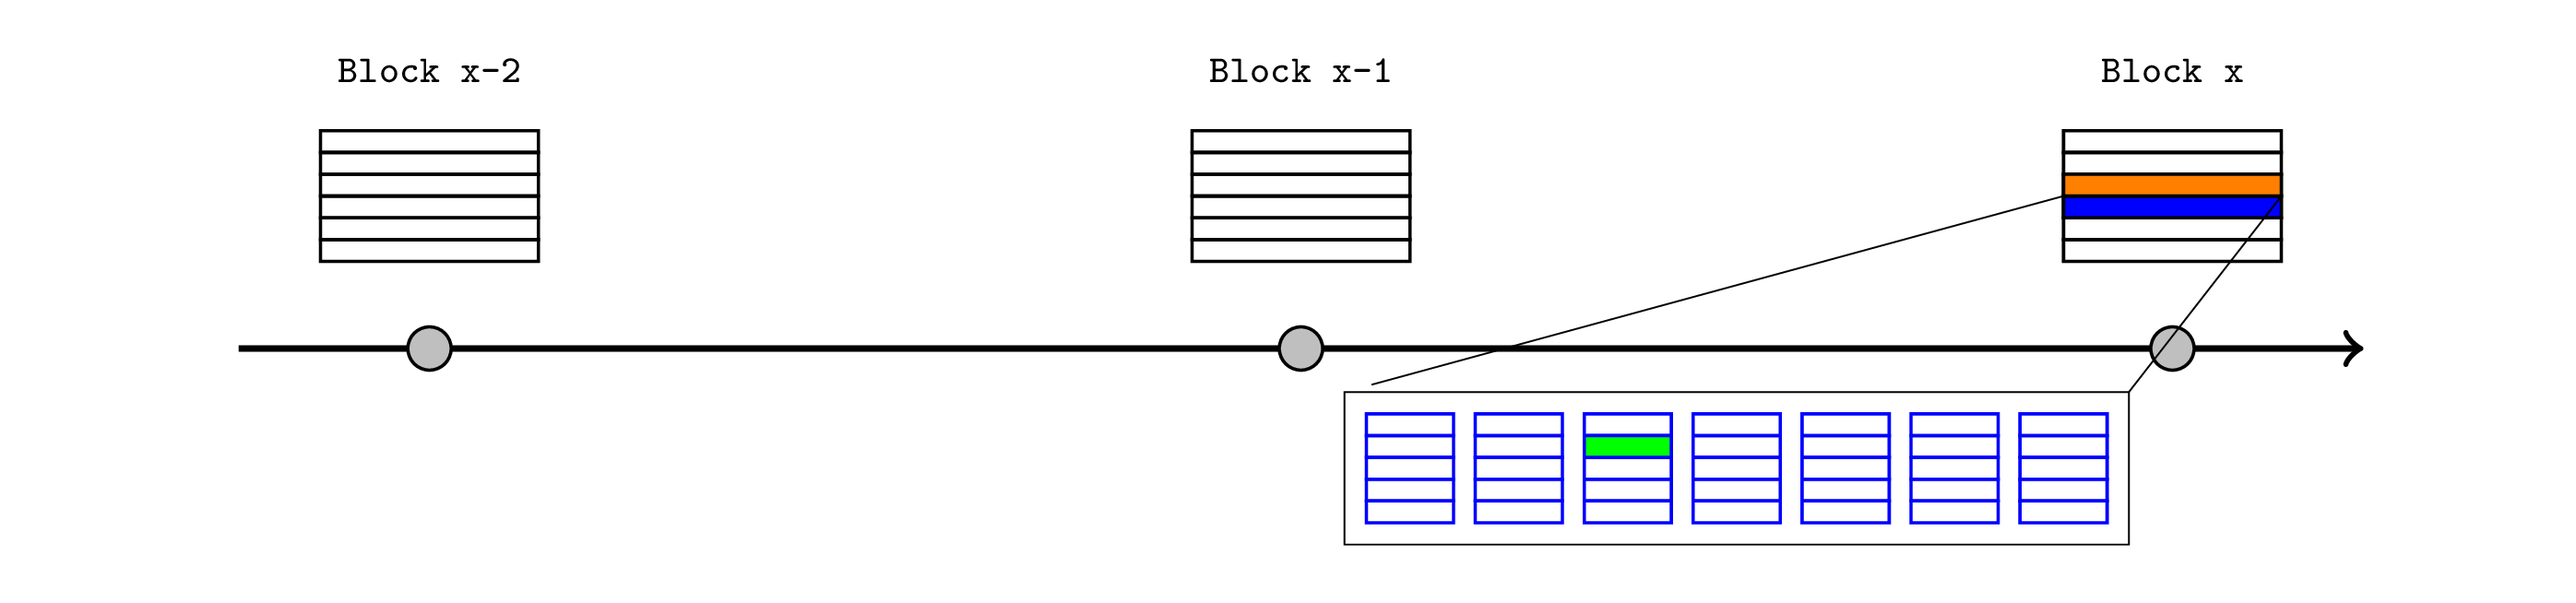
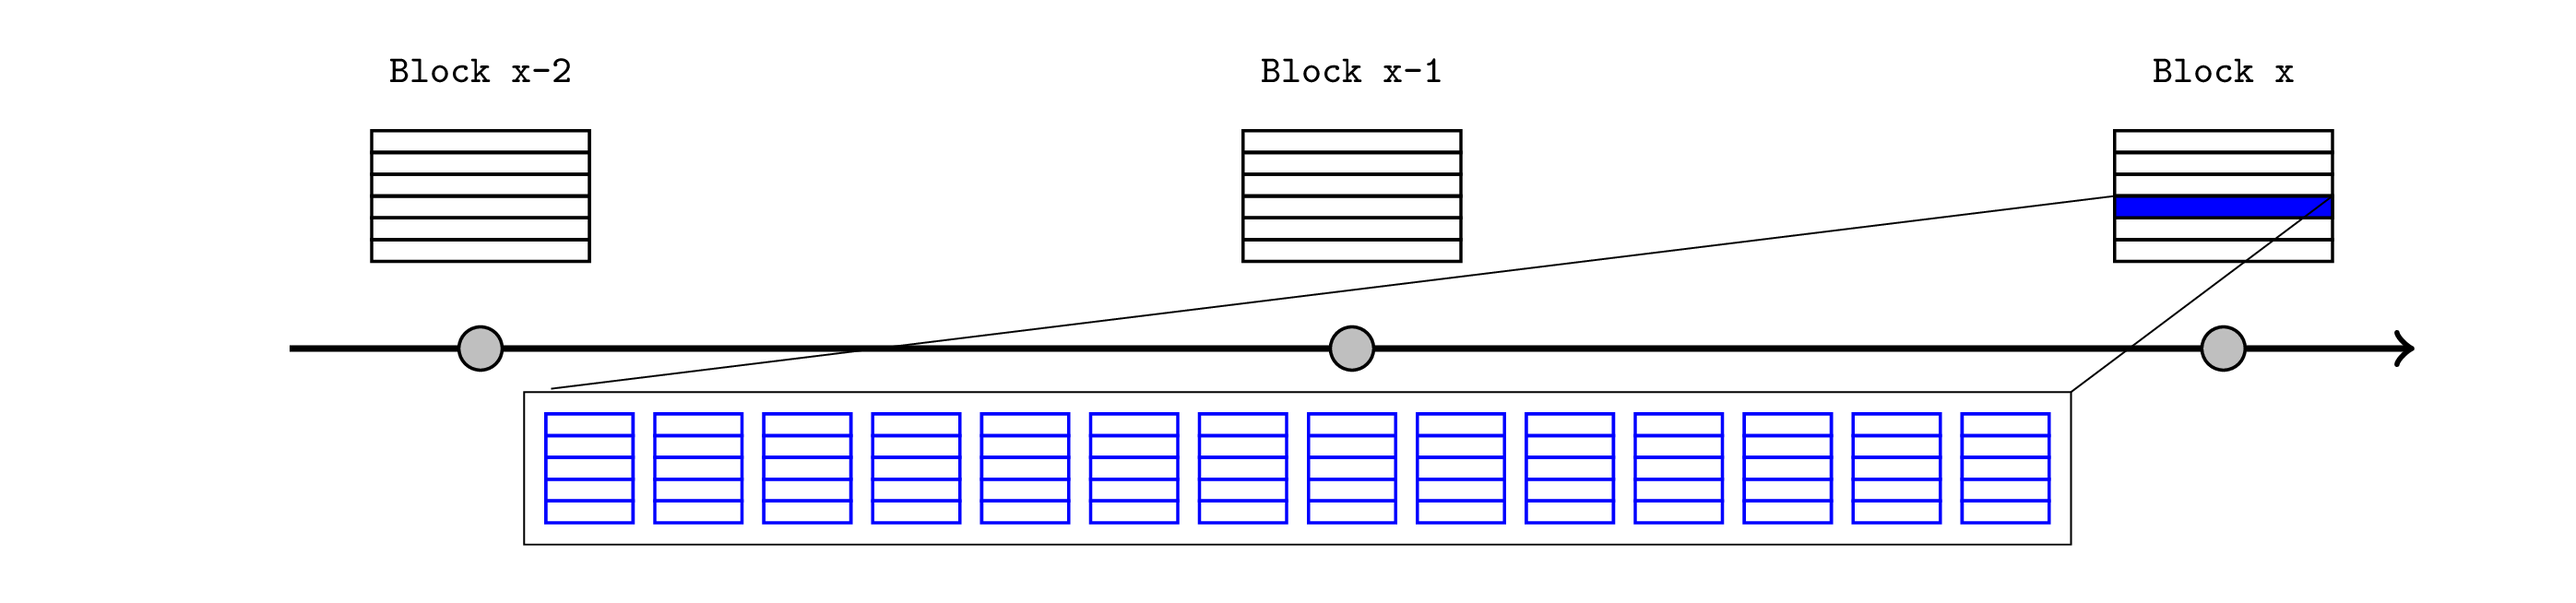
Simplify discussion about transaction ordering

diff --git a/documentation/provable_assertion_images.tex b/documentation/provable_assertion_images.tex
@@ -85,24 +85,11 @@
 \end{tikzpicture}
 \fi
 
-% Compare L2 transaction to L1 transaction
-\ifnum \sourceNo = 2
-\begin{tikzpicture}[framed]
-    \timeline
-    \lOneTransactions
-    \lTwoTransactions
-    \publication
-
-    \node[draw, lOneTx, fill=orange] at (tx-2-2) {};
-    \node[draw, lTwoTx, fill=green] at (l2Tx-2-1) {};
-\end{tikzpicture}
-\fi
-
 % L2 publications may span multiple L1 slots
 \renewcommand{\anchorBlockNum}{0}
 \renewcommand{\numLTwoBlocks}{13}
 
-\ifnum \sourceNo = 3
+\ifnum \sourceNo = 2
 \begin{tikzpicture}[framed]
     \timeline
     \lOneTransactions
@@ -126,7 +113,7 @@
 }
 
 % Snapshot after L2 transaction
-\ifnum \sourceNo = 4
+\ifnum \sourceNo = 3
 \begin{tikzpicture}[framed]
     \timeline
 
@@ -147,7 +134,7 @@
 }
 
 % Anchor block hash is validated
-\ifnum \sourceNo = 5
+\ifnum \sourceNo = 4
 \begin{tikzpicture}[framed]
     \timeline
 
@@ -164,7 +151,7 @@
 \fi
 
 % Anchor block hash is validated
-\ifnum \sourceNo = 6
+\ifnum \sourceNo = 5
 \begin{tikzpicture}[framed]
     \timeline
 

diff --git a/documentation/PreemptiveProvableAssertions.md b/documentation/PreemptiveProvableAssertions.md
@@ -25,18 +25,11 @@ L2 transactions are derived from data published in an L1 transaction. Typically,
 
 <p align="center"><img src="./provable_assertion_images.1.png"/></p>
 
-Now consider the question: does any particular L2 transaction (green in this example) execute before the previous L1 transaction (orange)?
+We are also focussed on potential functionality that can be offered by an L2 sequencer with monopoly rights until a particular slot, typically spanning several L1 blocks (although just two are depicted here).
+
 <p align="center"><img src="./provable_assertion_images.2.png"/></p>
 
-In the context of composability, we are considering how the content of one transaction can be influenced by another, rather than metadata like block timestamps. Even so, this is ambiguous because it depends on the interpretation.
-
-If you consider the final transcript that reaches consensus, only the L1 ordering (after accounting for any re-orgs) is meaningful. The orange transaction clearly comes first because it can affect how the transactions in the L2 publication are processed, whereas the reverse is not true. This interpretation is also consistent with my previous claim that L2 transactions are derived from the L1 publication, which suggests they don't exist until they are recorded on L1.
-
-On the other hand L2 blocks are actually constructed before the corresponding L1 block and may even be preconfirmed, which means the sequencer cannot freely modify them without paying some penalty. L1 transactions might be constructed in response to L2 preconfirmations, even if they are positioned first in the final transcript. This is particularly true whenever an L2 publication spans multiple L1 slots, which is the typical behaviour.
-
-<p align="center"><img src="./provable_assertion_images.3.png"/></p>
-
-In this article we are focussed on potential functionality that can be offered by the monopoly sequencer for one particular slot (or one that has made the appropriate agreements), so they can credibly offer execution preconfirmations. Therefore, we will default to the second interpretation where L2 blocks are continuously created and finalized (in the sense that the sequencer won't change them) before they are posted to L1. Even if we 
+Such a sequencer would be partially limited in their flexibility to reorganise L2 transactions over several slots, because they may offer preconfirmations or liveness guarantees to users. Whenever we discuss a transaction occurring on L2 before it is actually published to L1, we really just mean that it can influence later transactions and the sequencer is unlikely to remove or delay it. For simplicity, this article will default to describing L2 blocks as if they are continuously created and finalized in real time.
 
 ## Anchor blocks
 
@@ -51,11 +44,11 @@ For example, consider a snapshot spanning a cross-chain token deposit and a few 
 - the token recipient (or anyone else) provides a Merkle proof to an L2 bridge contract demonstrating that the deposit was saved under the relevant storage root within the L1 state root. This convinces the L2 bridge that the deposit occured on L1, so it releases or mints the L2 tokens (light green).
 - those tokens are now immediately available to interact with the rest of the L2 ecosystem in future transactions and blocks.
 
-<p align="center"><img src="./provable_assertion_images.4.png"/></p>
+<p align="center"><img src="./provable_assertion_images.3.png"/></p>
 
 Note that at this point the sequencer has directly asserted the L1 state without justification. Although it is public information (in the sense that anyone can retrieve the value from an L1 node), this cannot be validated from inside the L2 EVM so L2 contracts must simply trust that it was correct. A sequencer that passes an invalid state root could fabricate a plausible alternate history that would be self-consistent from within the L2 EVM. This is eventually resolved when the bundle is published to the L1 inbox contract, which queries the relevant block hash so it can be compared to the injected state root.
 
-<p align="center"><img src="./provable_assertion_images.5.png"/></p>
+<p align="center"><img src="./provable_assertion_images.4.png"/></p>
 
 ### Security architecture
 
@@ -93,4 +86,4 @@ This idea was [introduced by Nethermind](https://ethresear.ch/t/same-slot-l1-l2-
 
 As noted, the anchor block mechanism requires the Inbox contract to query the block hash of the relevant L1 block, which implies it cannot be used to react to transactions included in the current L1 block. However, an L2 sequencer that can predict a particular L1 transaction will be included in the publication block (either because this is a based rollup or the sequencer has seen an L1 preconfirmation) can assert that claim immediately in the L2.
 
-<p align="center"><img src="./provable_assertion_images.6.png"/></p>
+<p align="center"><img src="./provable_assertion_images.5.png"/></p>
